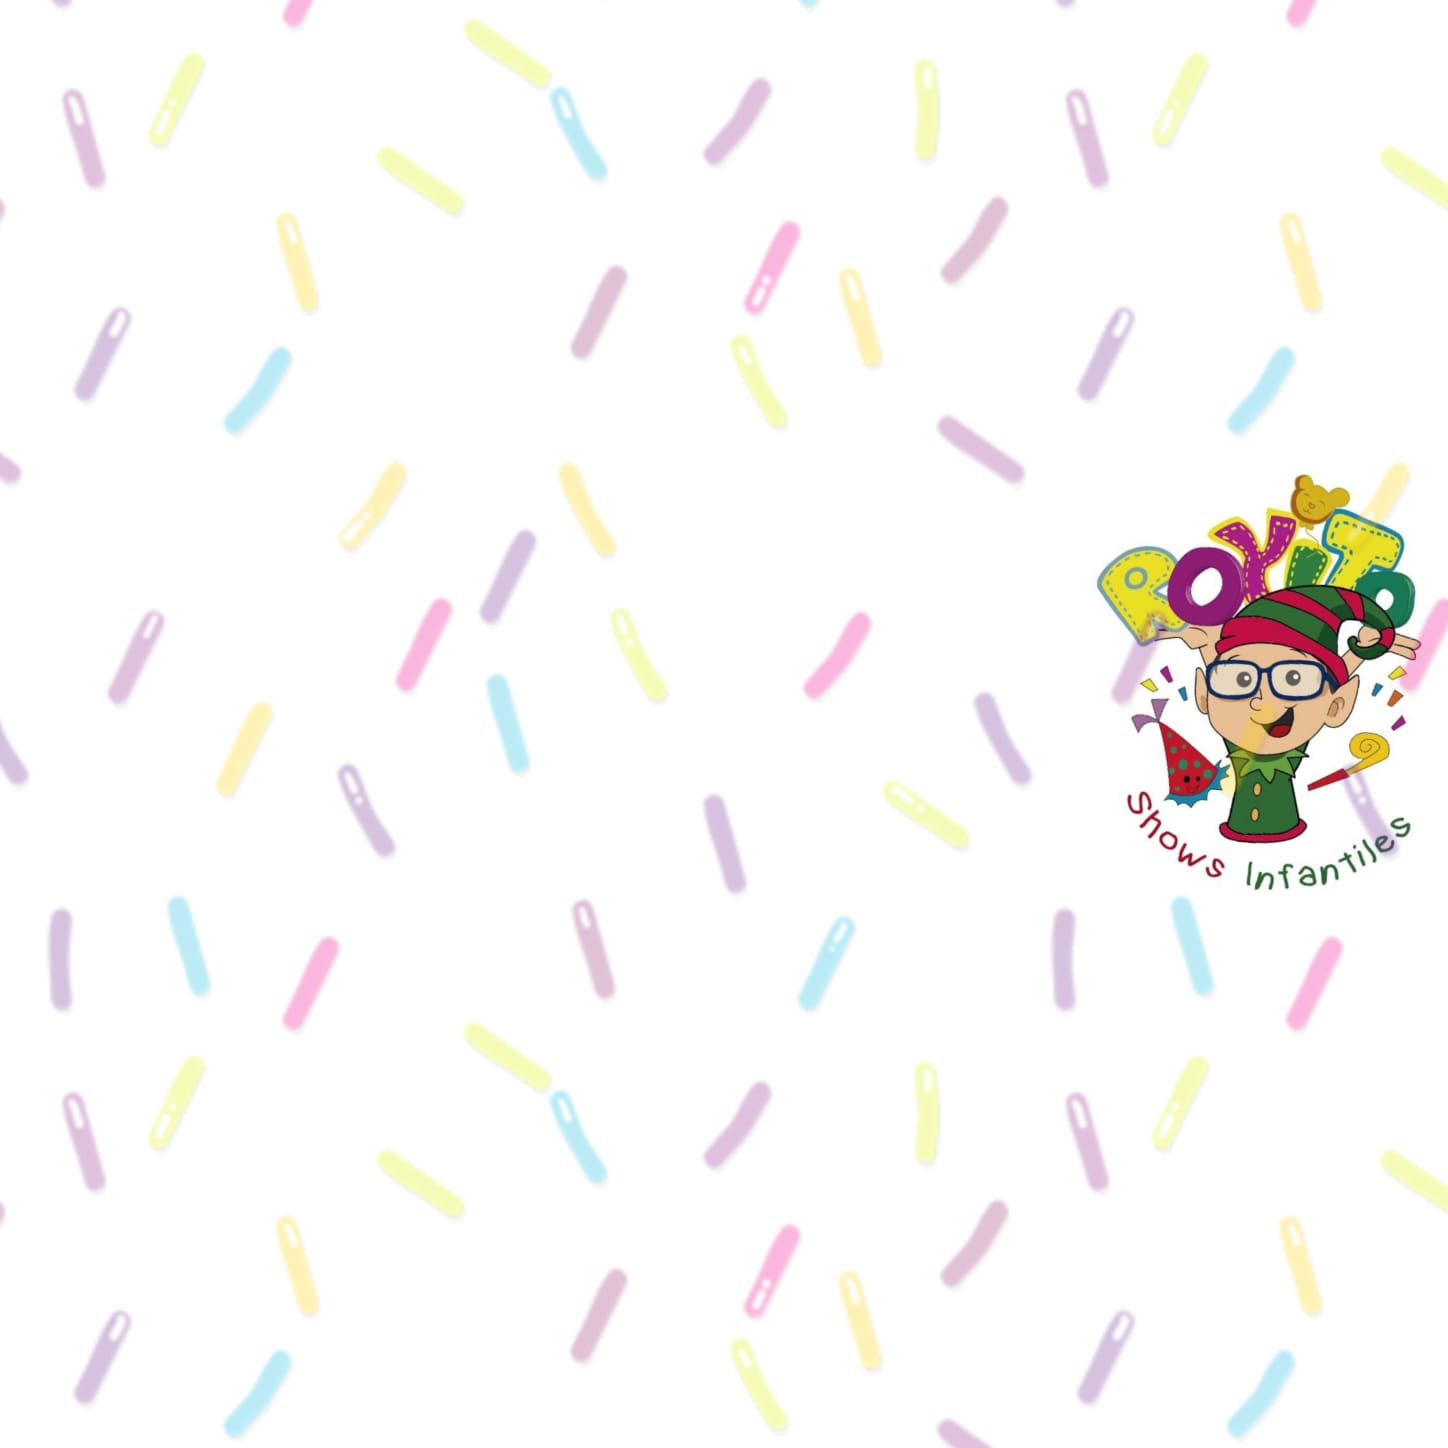
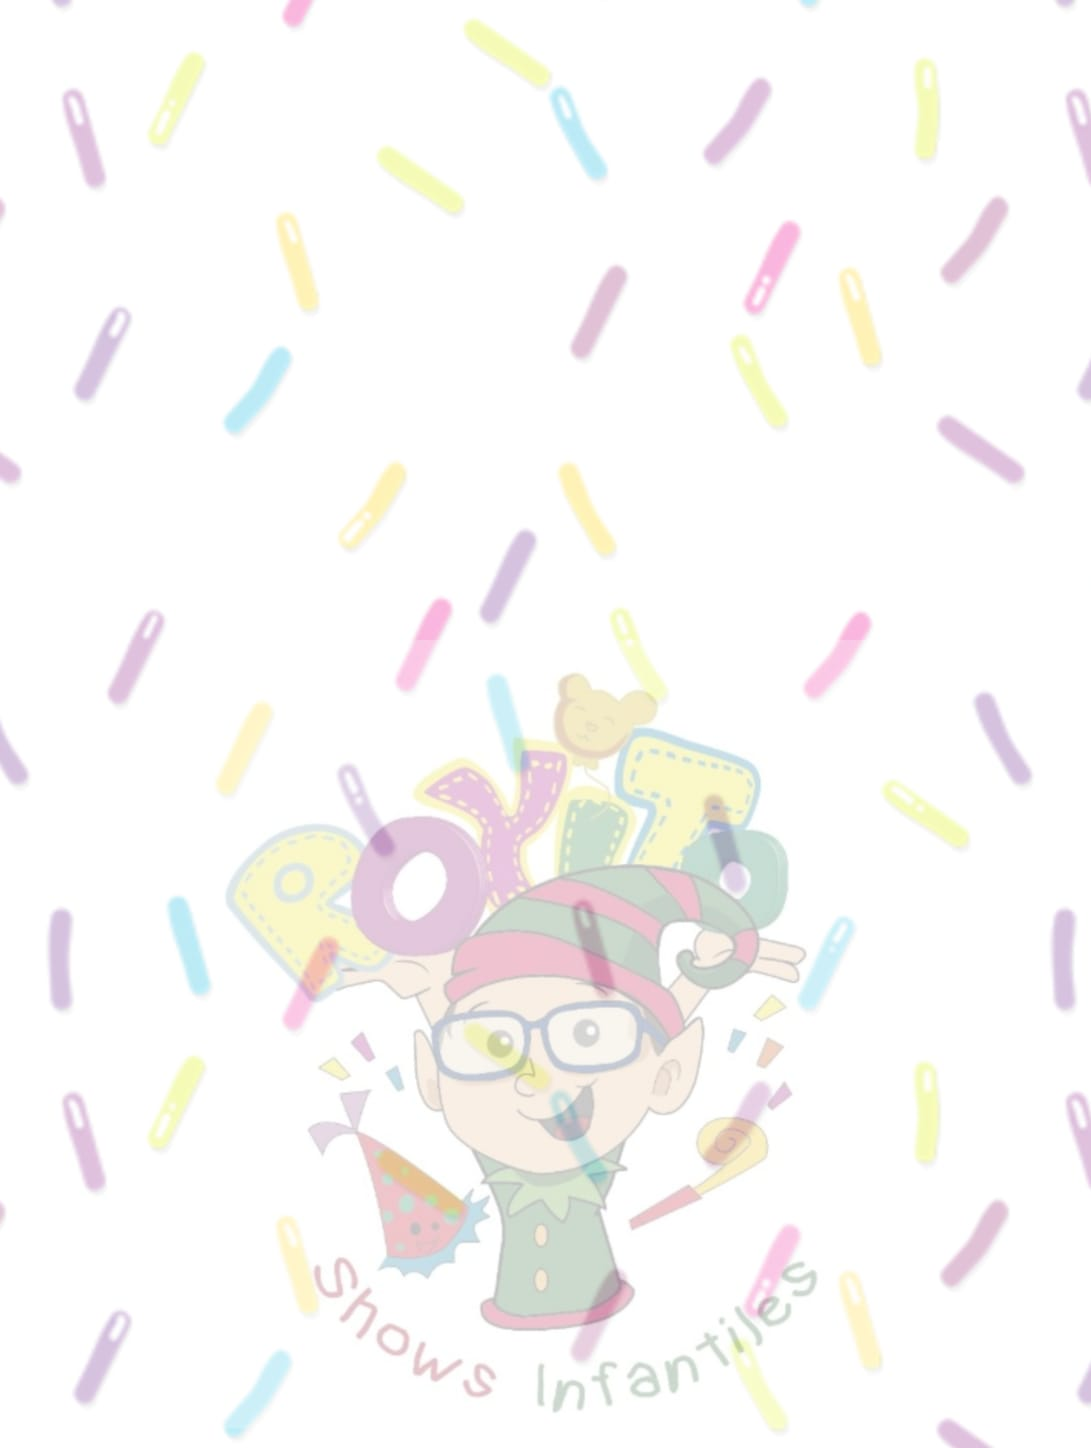
fondo

diff --git a/index.html b/index.html
@@ -6,49 +6,7 @@
     content="width=device-width,
        initial-scale=1.0">
   <title>Sesión</title>
-  <style>
-    html {
-    background-image:
-      url(fondo.jpeg);
-    /* La imagen de fondo no
-     * se repite en caso de
-     * que sea más pequeña que
-     * el elemento en que se
-     * coloca. En este caso
-     * html es la ventana. */
-    background-repeat: no-repeat;
-    /* La imagen de fondo se
-     * muestra centrada
-     * horizontalmente. */
-    background-position-x:
-      center;
-    /* La imagen de fondo se
-     * muestra centrada
-     * verticalmente. */
-    background-position-y:
-      center;
-    /* La imagen de fondo se
-     * muestra fija y no se
-     * desplaza. */
-    background-attachment:
-      fixed;
-    /* Distintas propiedades
-     * para distintos
-     * navegadores indicando
-     * que la imagen de fondo
-     * tiene un tamaño que
-     * cubre toda la ventana.
-     */
-    -webkit-background-size: cover;
-    -moz-background-size: cover;
-    -o-background-size: cover;
-    background-size: cover;
-  }
-    .outset{
-      border:
-      thick outset rgba(44, 107, 224, 0.5)
-   }
-  </style>
+
   <!--
     Carga el núcleo de Firebase
     JS SDK

diff --git a/css/estilos.css b/css/estilos.css
@@ -2,6 +2,7 @@
 @import "mi-footer.css";
 @import "listas.css";
 
+
 :root {
   font-family: sans-serif;
   --col-active: #4646462c;
@@ -60,3 +61,23 @@ p label>* {
   box-sizing: border-box;
   width: 100%;
 }
+
+html {
+  background-image:
+    url(fondo.jpeg);  
+  background-repeat: no-repeat;  
+  background-position-x:
+    center;
+  background-position-y:
+    center;  
+  background-attachment:
+    fixed;
+   -webkit-background-size: cover;
+  -moz-background-size: cover;
+  -o-background-size: cover;
+  background-size: cover;
+}
+  .outset{
+    border:
+    thick outset rgba(44, 107, 224, 0.5)
+ }
